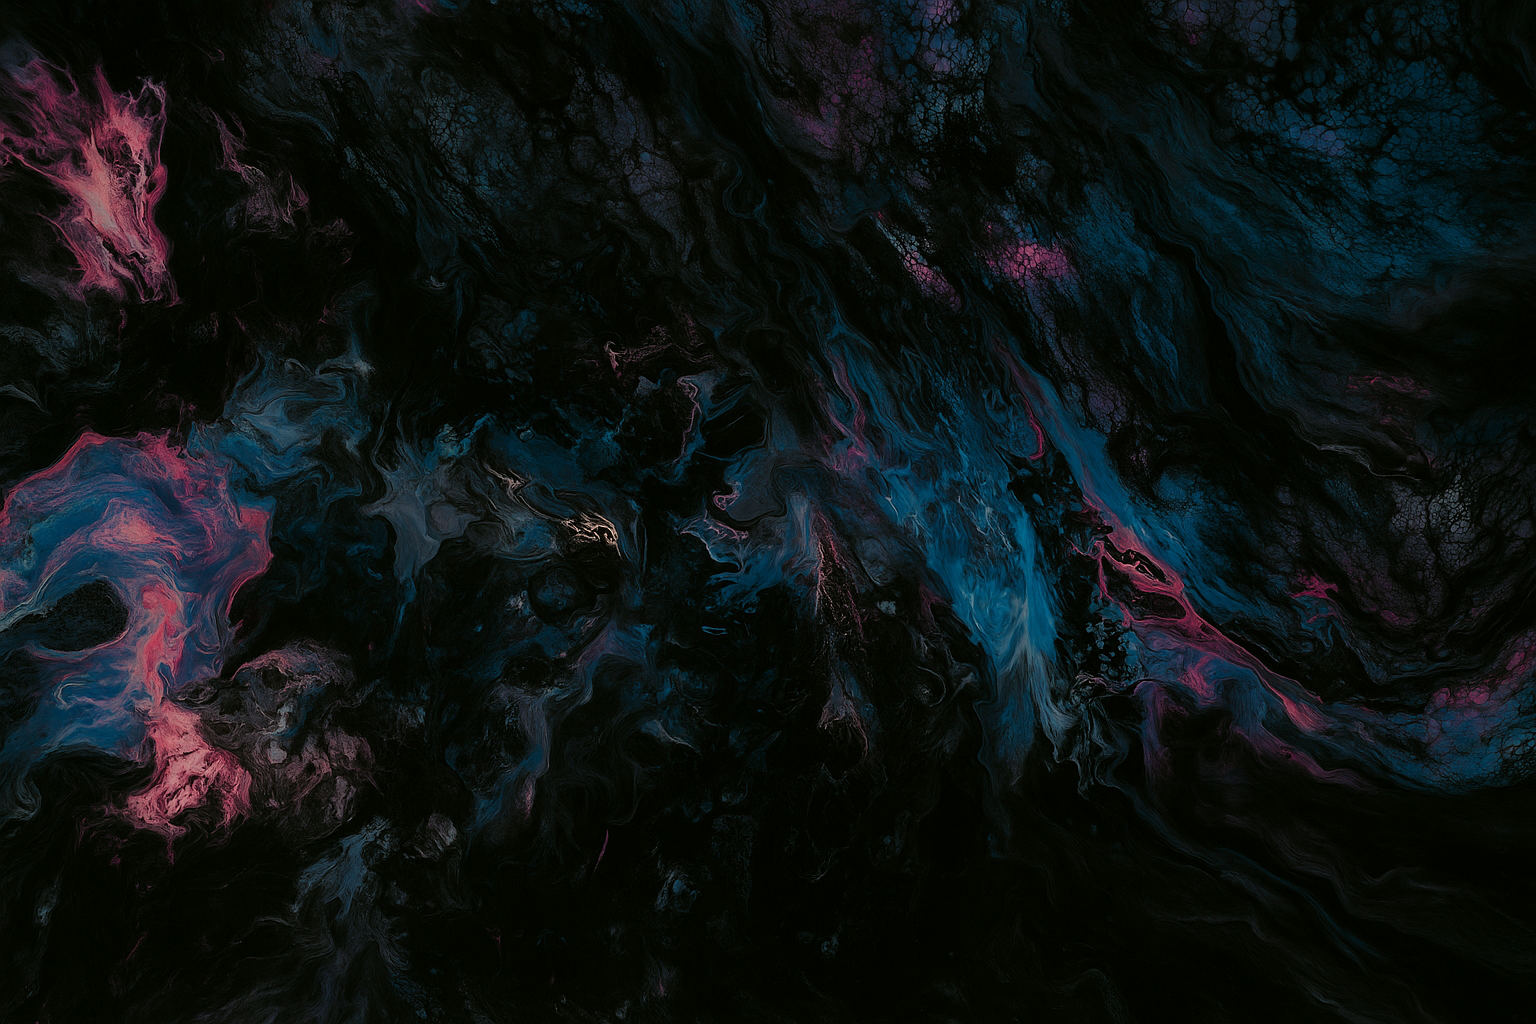
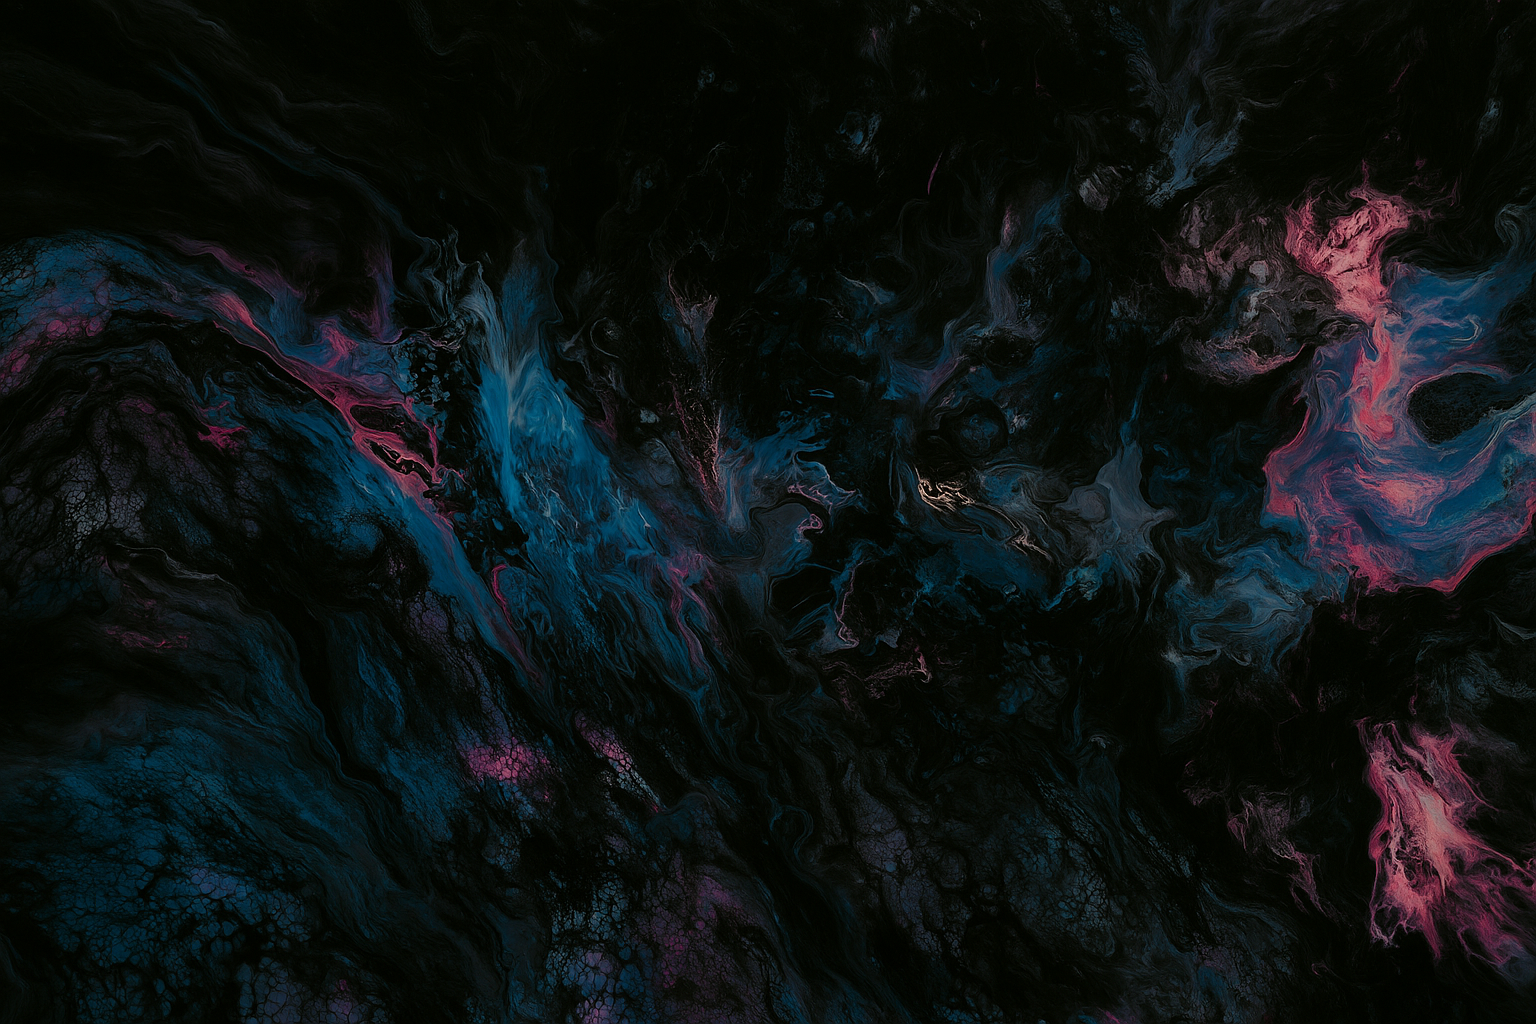
Updated background image

diff --git a/src/sections/Hero.jsx b/src/sections/Hero.jsx
@@ -33,7 +33,7 @@ const Hero = () => {
         <div className="relative h-screen overflow-y-hidden">
           <div className="absolute inset-0 w-full h-screen -z-10"
             style={{
-              backgroundImage: "url(/assets/hero/paint1.png)",
+              backgroundImage: "url(/assets/hero/paint2.png)",
               backgroundPosition: "bottom",
               backgroundSize: "cover",
             }}
